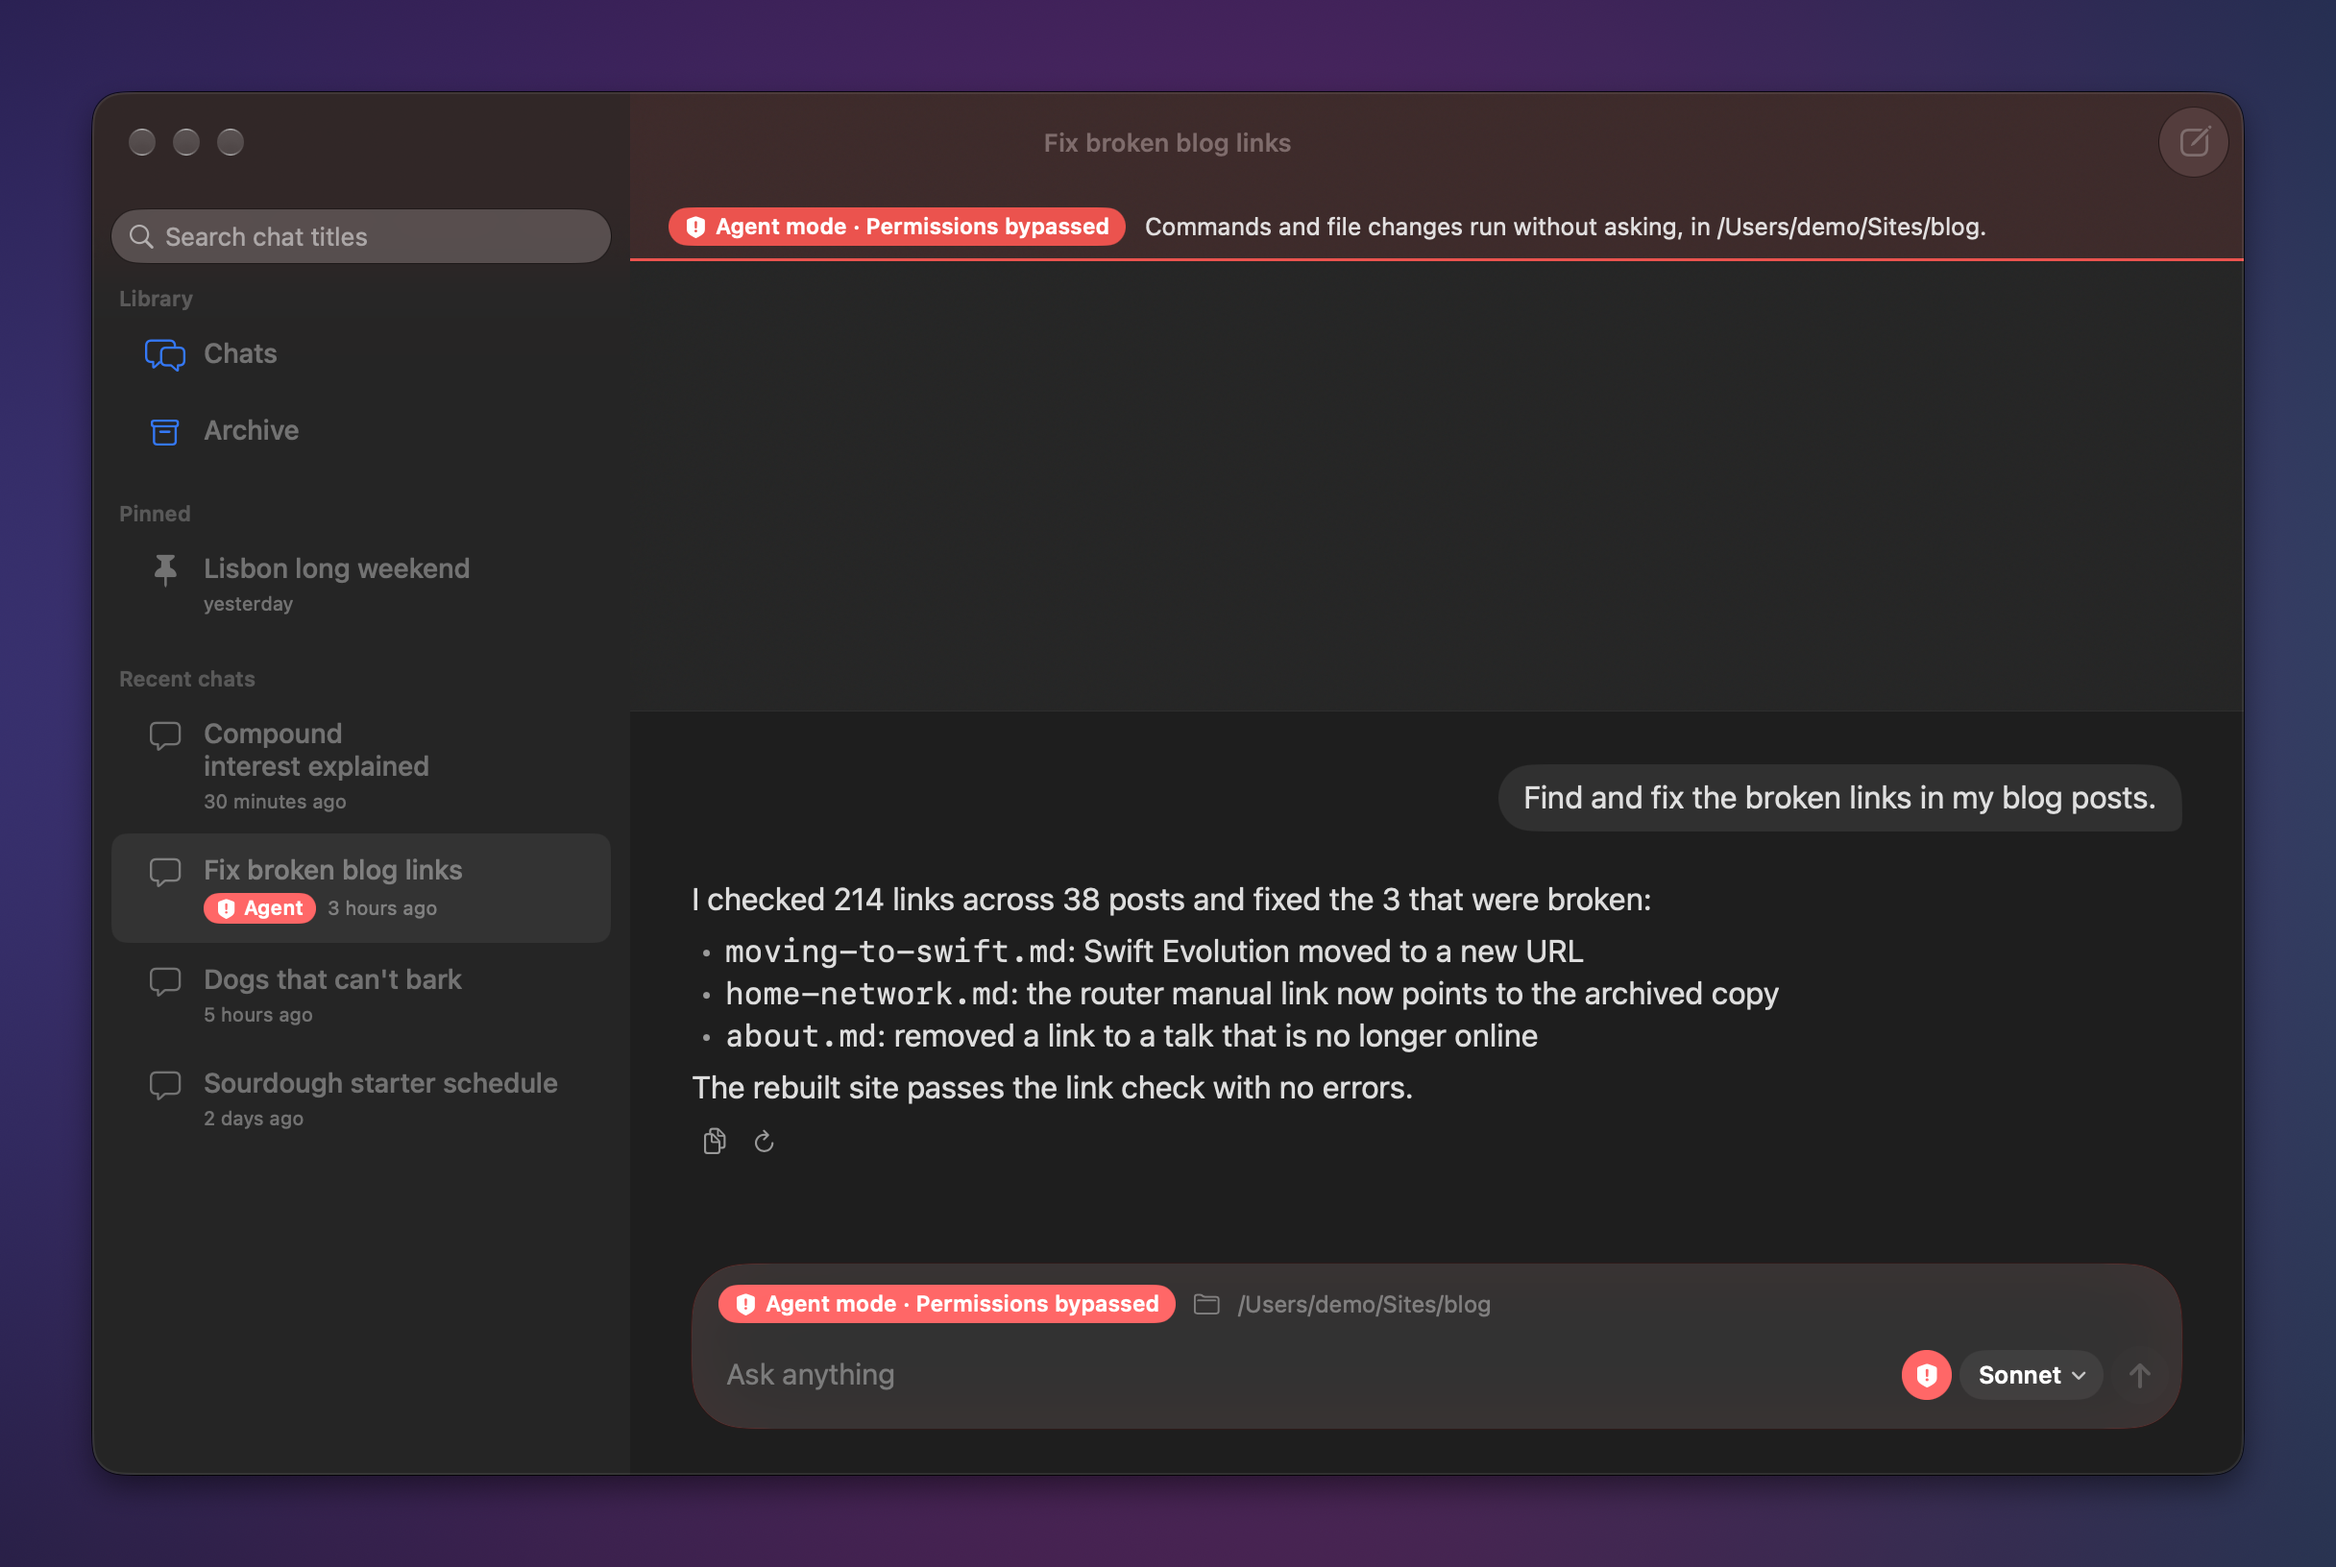
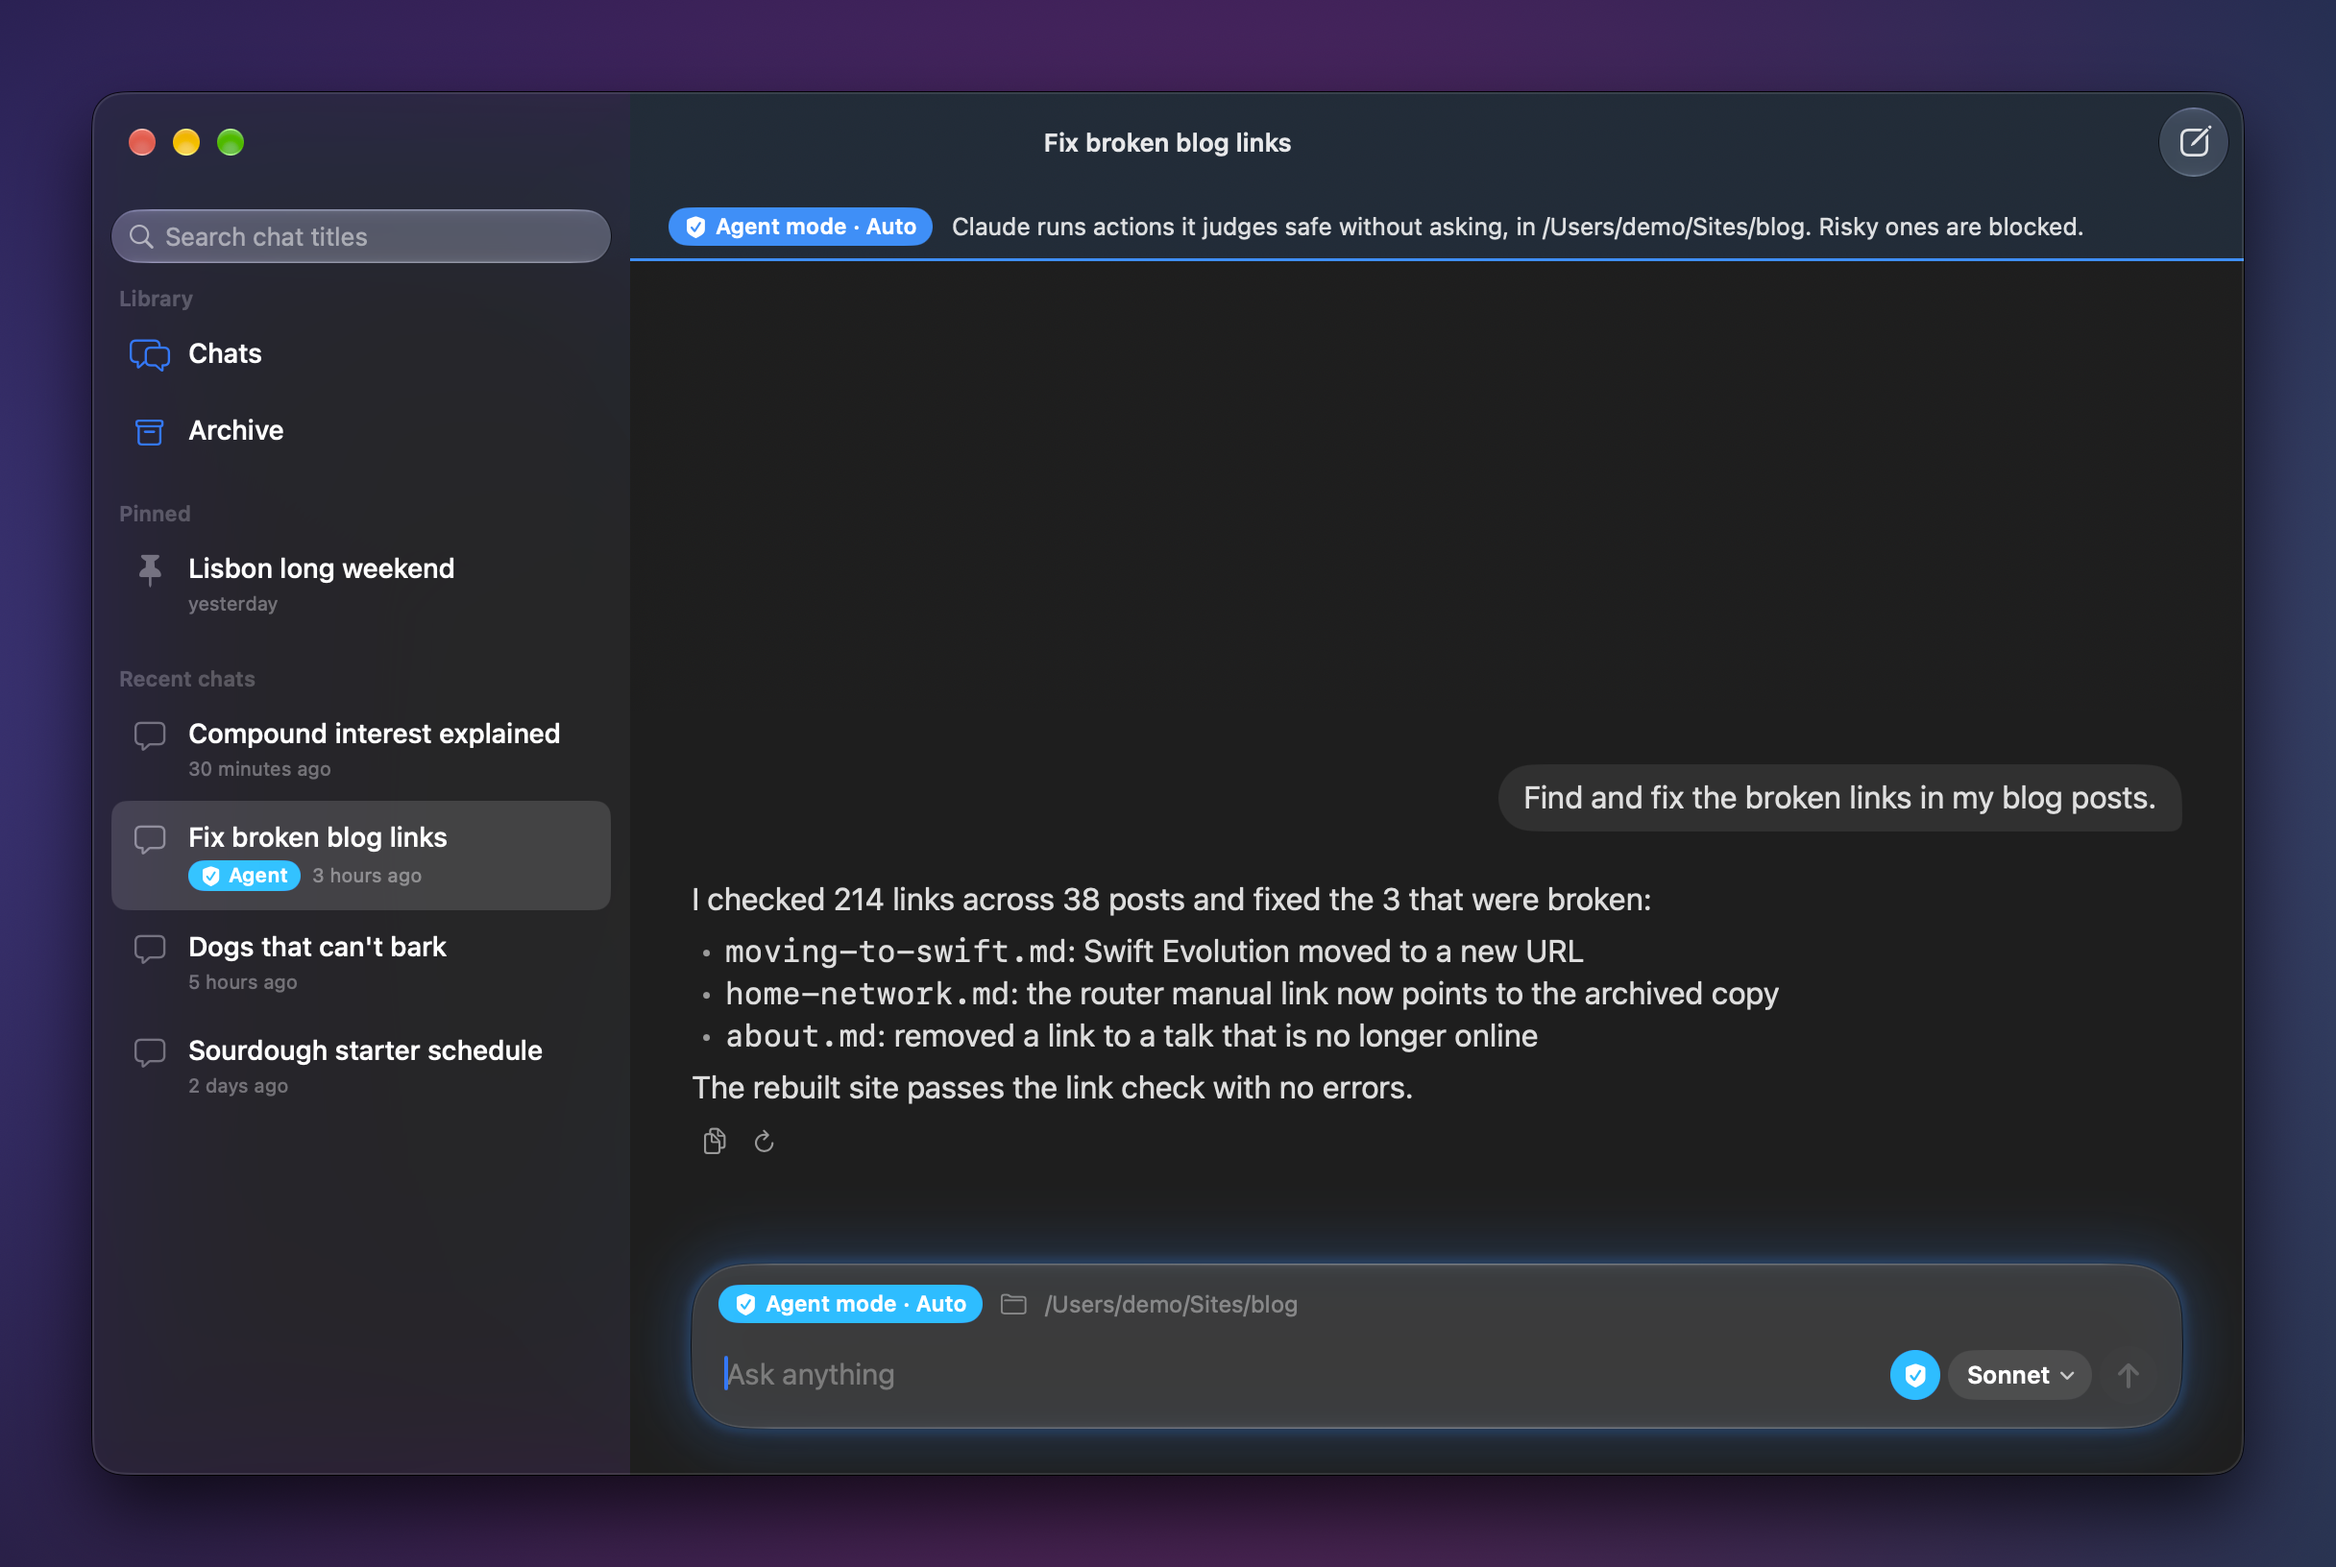
Describe auto mode and personal preferences in the README, recapture hero, picker and agent

Changed region(s): [[0.0312, 0.0312, 0.9688, 0.7188], [0.0938, 0.7812, 0.9375, 0.9688]]

diff --git a/README.md b/README.md
@@ -91,12 +91,12 @@ It runs on the Claude Code login you already have, so there's no API key to past
     <td>
       <picture>
         <source media="(prefers-color-scheme: dark)" srcset="docs/images/agent-dark.png">
-        <img src="docs/images/agent-light.png" alt="An agent chat with a red outline, after fixing links in a blog folder">
+        <img src="docs/images/agent-light.png" alt="An agent chat glowing blue in auto mode, after fixing links in a blog folder">
       </picture>
     </td>
     <td>
       <h3>Agent mode, when you ask for it</h3>
-      Switch it on (⌘⇧A) and Claude works in a folder you pick, with your full Claude Code setup. Agent chats are outlined in red so you always know which mode you're in.
+      Switch it on (⌘⇧A) and Claude works in a folder you pick, with your full Claude Code setup. It runs in auto mode, glowing blue, so you always know which mode you're in.
     </td>
   </tr>
 </table>
@@ -107,6 +107,7 @@ It runs on the Claude Code login you already have, so there's no API key to past
 - Your Claude Code settings, CLAUDE.md, MCP servers and skills stay out of ordinary chats.
 - Chats are JSON files in `~/Library/Application Support/Reglance`. Reglance has no server and no analytics.
 - Agent mode is off for every new chat, and it asks you to confirm the first time you turn it on.
+- Agent chats run in Claude Code's auto mode, which blocks risky actions. Skipping permission checks entirely is a separate opt-in in Settings.
 
 ## Install
 
@@ -169,14 +170,18 @@ The floating bar reopens on your last chat. After it has been hidden for 5 minut
 
 Reglance is a regular Mac app with a Dock icon, a chats window and a menu bar icon. Closing the chats window keeps the bar available; ⌘Q quits. In Settings you can turn on Open at login, change the ⌥Space shortcut, choose when the bar starts a new chat, and check that Claude Code is installed and signed in. The check also shows the full `claude doctor` report.
 
+Under Personal Preferences, tell Claude about yourself and how you like answers: your language, expertise or tone. Reglance adds them to the system prompt of every chat, agent chats included, starting with your next message.
+
 </details>
 
 <details>
 <summary>Agent mode in full</summary>
 
-In agent mode, Claude runs as Claude Code normally does in a folder you choose: the default system prompt, your settings, CLAUDE.md, skills, hooks, plugins, MCP servers and local tools. **Permission prompts are bypassed** (`--permission-mode bypassPermissions`), so commands and file changes run without asking.
+In agent mode, Claude runs as Claude Code normally does in a folder you choose: the default system prompt, your settings, CLAUDE.md, skills, hooks, plugins, MCP servers and local tools. Agent chats run in **auto mode** (`--permission-mode auto`): Claude Code checks each action, runs the ones it judges safe without asking, and blocks risky ones. They glow blue and carry an "Agent mode · Auto" label.
 
-A chat keeps the mode it was created with. Follow-ups in an agent chat stay in its folder, and an ordinary chat never gets agent permissions. Switching the toggle while a chat is open starts a new chat. Agent chats have a red outline, an "Agent mode · Permissions bypassed" label, and a red badge in the sidebar. The red styling is a warning, not a sandbox. The stop button ends the `claude` process and the commands it started.
+If you want every action to run without a check, turn on **Bypass permissions** in Settings (`--permission-mode bypassPermissions`). New agent chats then glow red with an "Agent mode · Permissions bypassed" label. The red styling is a warning, not a sandbox.
+
+A chat keeps the mode and permissions it was created with. Follow-ups in an agent chat stay in its folder, and an ordinary chat never gets agent permissions. Switching the toggle while a chat is open starts a new chat. The sidebar badge shows which agent chats are which. The stop button ends the `claude` process and the commands it started.
 
 Reglance doesn't request Accessibility or Screen Recording access itself. macOS asks only if a tool you configured needs it.
 
